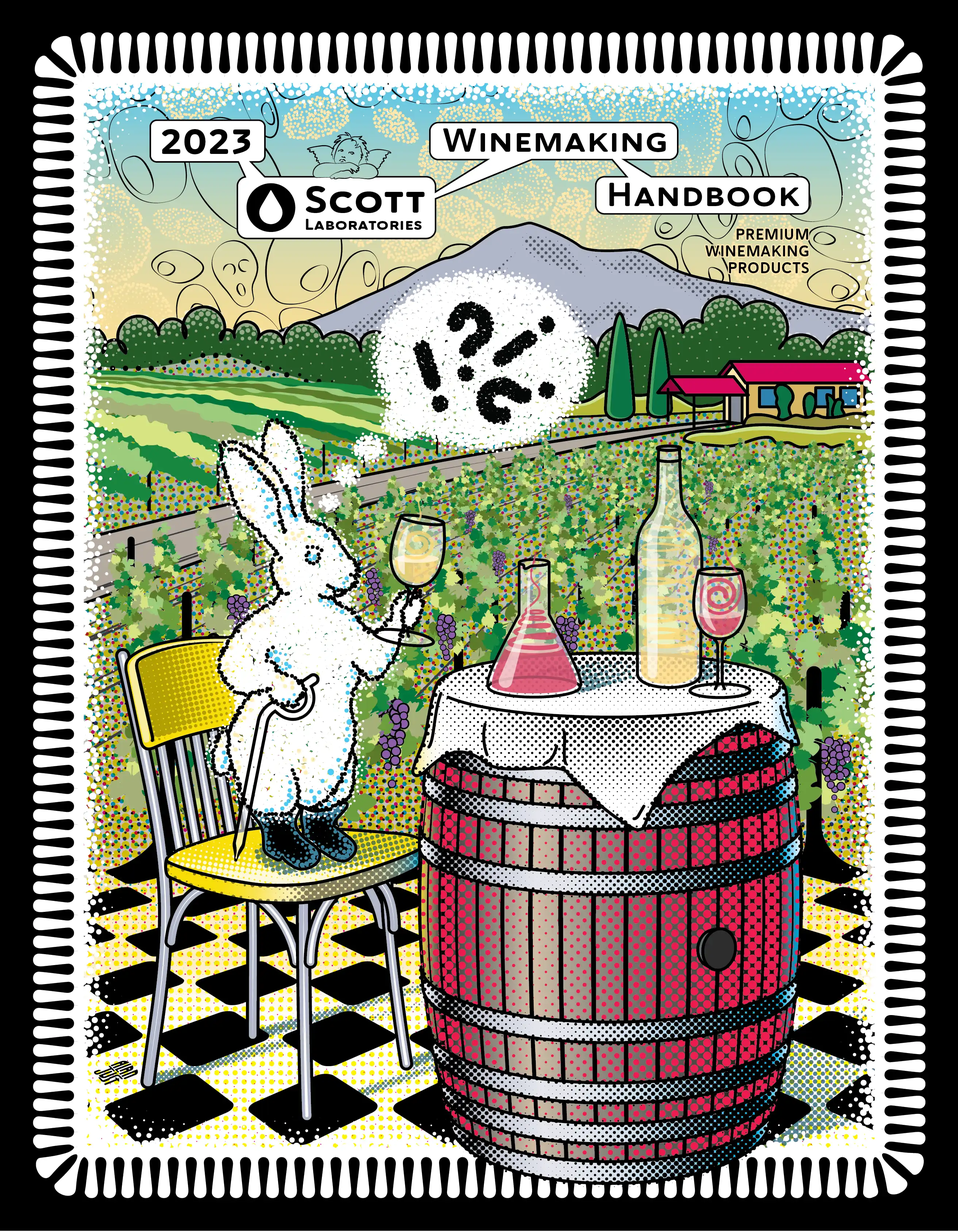
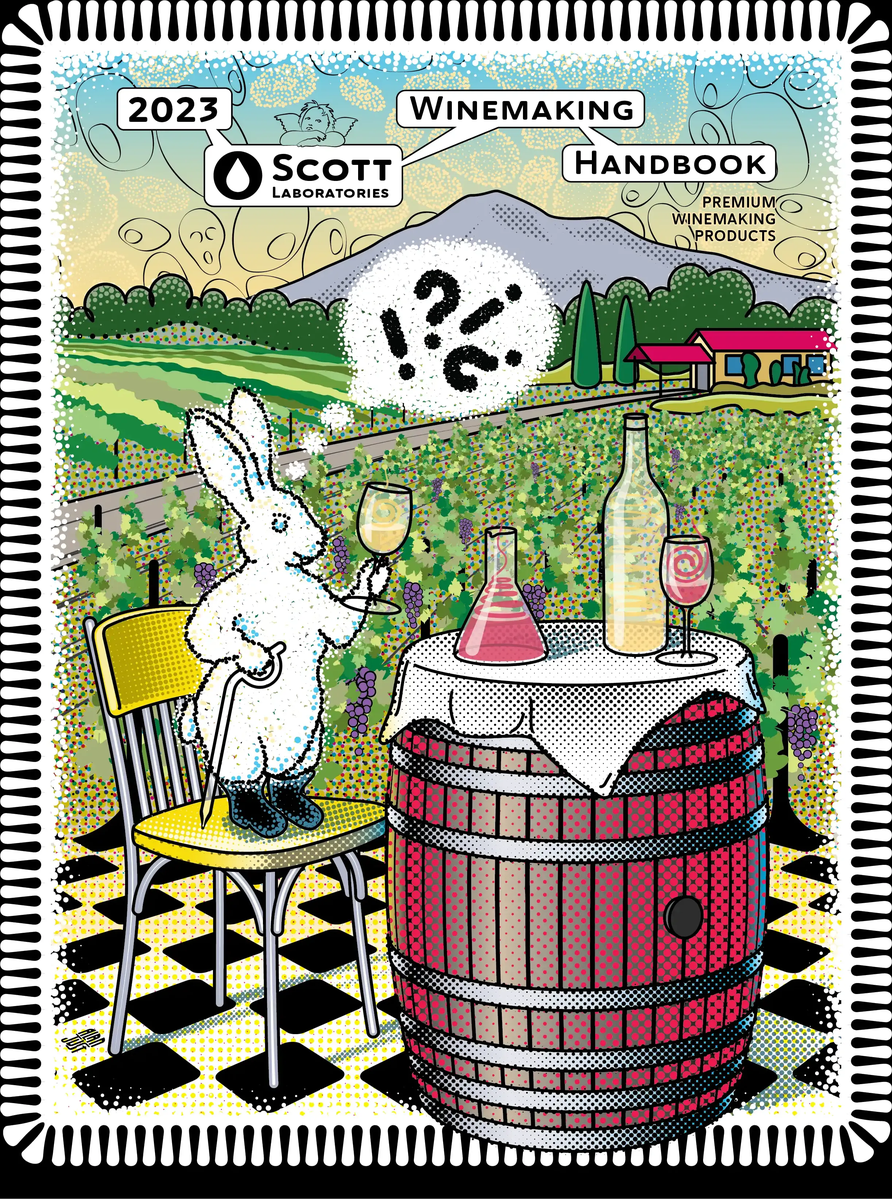
Even out the tops of the gallery columns
- Gallery items are inline-block so Safari keeps each item's bottom
  margin with it instead of carrying it to the top of the next column
- Trim the black border baked into the Scott 2023 cover image

diff --git a/src/styles/global.css b/src/styles/global.css
@@ -646,8 +646,13 @@ label {
   width: 100%;
 }
 
+/* inline-block + width 100% keeps each item's bottom margin with it.
+   As a plain block, Safari carries that margin to the top of the next
+   column, which pushes that column's first picture down. */
 .masonry-item {
-  display: block;
+  display: inline-block;
+  width: 100%;
+  vertical-align: top;
   break-inside: avoid;
   position: relative;
   margin-bottom: 1.5rem;
